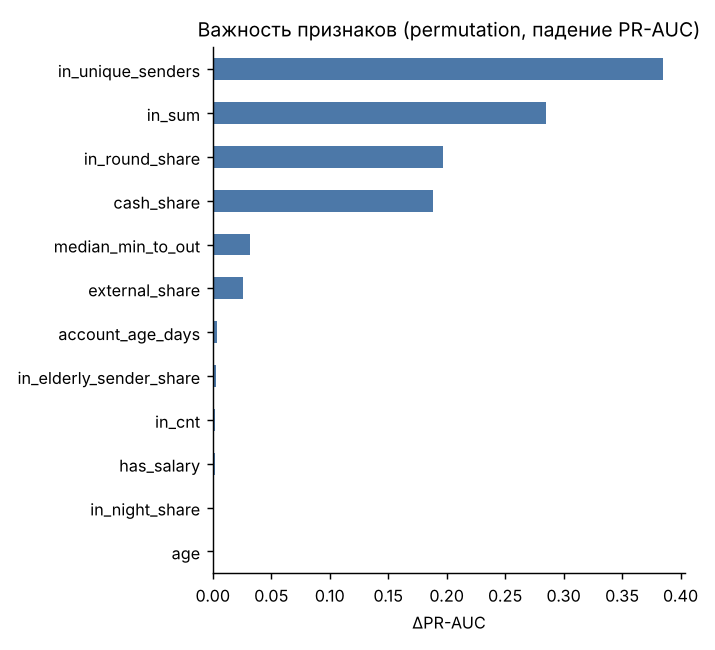
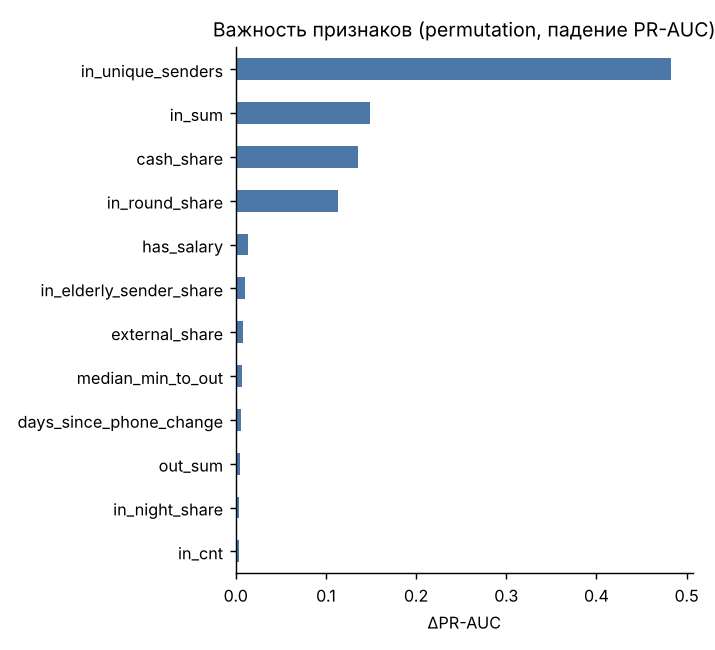
Make results reproducible and update README numbers
DuckDB returned rows in arbitrary order and HistGradientBoosting carved a
random validation split for early stopping, so PR-AUC moved between 0.79
and 0.81 across runs and rule ties at k=300 shuffled. Rows are now ordered
by client_id and the booster trains a fixed number of trees. The profit
optimum is reported as a plateau rather than a single k.

diff --git a/src/train.py b/src/train.py
@@ -60,7 +60,7 @@ def build_features() -> tuple[pd.DataFrame, pd.DataFrame]:
     periods = [("2026-04-01", "2026-05-31"), ("2026-05-31", "2026-07-30")]
     out = []
     for p_start, p_end in periods:
-        df = con.execute(sql, {"p_start": p_start, "p_end": p_end}).df()
+        df = con.execute(sql, {"p_start": p_start, "p_end": p_end}).df().sort_values("client_id", ignore_index=True)
         out.append(df)
     return out[0], out[1]
 
@@ -109,9 +109,11 @@ def main() -> None:
         "Правила": None,
         "Логистическая регрессия": make_pipeline(log1p, StandardScaler(),
                                                  LogisticRegression(max_iter=2000, class_weight="balanced")),
+        # early_stopping выключен: иначе бустинг сам откладывает случайные 10% под валидацию,
+        # и результат зависит от порядка строк; число деревьев задаём явно
         "Градиентный бустинг": HistGradientBoostingClassifier(
-            max_iter=400, learning_rate=0.05, max_leaf_nodes=31, l2_regularization=1.0,
-            class_weight="balanced", random_state=0),
+            max_iter=150, learning_rate=0.05, max_leaf_nodes=31, l2_regularization=1.0,
+            early_stopping=False, class_weight="balanced", random_state=0),
     }
     value = test.in_sum.to_numpy() * SAVED_SHARE
     scores, results = {}, {}

diff --git a/README.md b/README.md
@@ -39,7 +39,7 @@
 
 ## Признаки
 
-Все признаки считаются одним запросом в DuckDB: [`sql/features.sql`](sql/features.sql). Скорость вывода денег («через сколько минут после входящего перевода было ближайшее списание») считается через `ASOF JOIN`. Запрос покрыт тестом на маленьком примере, где значения посчитаны вручную.
+Все признаки считаются одним запросом в DuckDB: [`sql/features.sql`](sql/features.sql). Порядок строк зафиксирован, и бустинг обучается без случайной внутренней валидации, поэтому результаты воспроизводятся до последнего знака. Скорость вывода денег («через сколько минут после входящего перевода было ближайшее списание») считается через `ASOF JOIN`. Запрос покрыт тестом на маленьком примере, где значения посчитаны вручную.
 
 | Группа | Признаки |
 |---|---|
@@ -54,18 +54,18 @@ Out-of-time тест: 39 963 клиента, 263 дроппера.
 
 | Модель | PR-AUC | Precision@300 | Recall@300 | Чистый эффект @300 |
 |---|---:|---:|---:|---:|
-| Правила (новый телефон или транзит) | 0,355 | 0,37 | 0,42 | 59,2 млн ₽ |
+| Правила (новый телефон или транзит) | 0,355 | 0,39 | 0,44 | 61,1 млн ₽ |
 | Логистическая регрессия | 0,747 | 0,71 | 0,81 | 82,3 млн ₽ |
-| Градиентный бустинг | **0,800** | **0,81** | **0,93** | **89,4 млн ₽** |
+| Градиентный бустинг | **0,808** | **0,81** | **0,92** | **89,2 млн ₽** |
 
-- Бустинг даёт на 51% больше чистого эффекта, чем правила, при той же нагрузке на команду. Доля верных алертов растёт с 37% до 81%.
-- Оптимум по деньгам приходится примерно на 566 алертов, а команда разбирает 300. Расширение проверки добавило бы около 1 млн ₽: это аргумент в разговоре о найме или автоматизации разбора.
-- Хуже всего ловятся «продвинутые» дропперы: recall 0,89 против 0,96 у простых.
-- Среди 300 алертов 56 ложных: 44 обычных клиента, 10 студентов, 2 продавца. Таким клиентам лучше показать мягкий сценарий («подтвердите операцию»), чем блокировать.
+- Бустинг даёт на 46% больше чистого эффекта, чем правила, при той же нагрузке на команду. Доля верных алертов растёт с 39% до 81%.
+- Команда разбирает 300 алертов, а кривая прибыли выходит на плато примерно от 340 до 680 алертов. Расширение проверки до ~400 добавило бы около 1,4 млн ₽, а дальше почти ничего: это аргумент за небольшое расширение команды или автоматизацию разбора, но не за кратное.
+- Хуже всего ловятся «продвинутые» дропперы: recall 0,88 против 0,96 у простых.
+- Среди 300 алертов 58 ложных: 48 обычных клиентов и 10 студентов. Таким клиентам лучше показать мягкий сценарий («подтвердите операцию»), чем блокировать.
 
 <p align="center"><img src="reports/figures/pr_curve.png" width="48%"> <img src="reports/figures/feature_importance.png" width="48%"></p>
 
-Самые важные признаки: число уникальных отправителей, сумма входящих, доля круглых сумм, доля вывода наличными и скорость вывода. Это совпадает с тем, как дропперские схемы описывает ЦБ.
+Самые важные признаки: число уникальных отправителей, сумма входящих, доля вывода наличными и доля круглых сумм. На синтетике это ожидаемо, потому что генератор построен на этих паттернах. Важнее другое: модель нашла их сама и правильно расставила по весу, а на реальных данных этот же разбор покажет, какие признаки работают на самом деле.
 
 ## Что дальше
 
